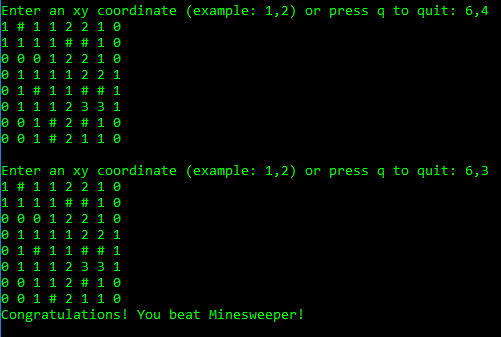
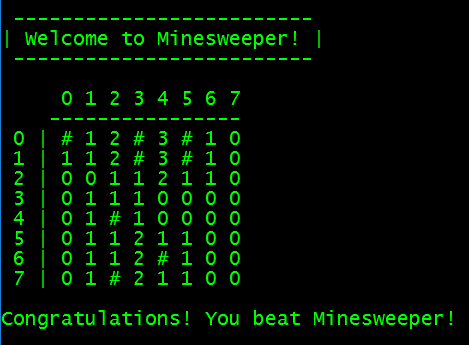
updated visuals

diff --git a/minesweeper.cpp b/minesweeper.cpp
@@ -27,12 +27,19 @@ void minesweeper::init_grid(){
 }
 
 void minesweeper::print_grid(){
+	std::cout << "    ";
+	for(unsigned i = 0; i < ROW; i++) std::cout << ' ' << i;
+	std::cout << "\n    ";
+	for(unsigned i = 0; i < ROW; i++) std::cout << "--";
+	std::cout << '\n';
 	for(unsigned short i = 0; i < ROW; i++){
+		std::cout << ' ' << i << " | ";
 		for(unsigned short j = 0; j < COL; j++){
 			std::cout << grid[i][j] << ' ';
 		}
 		std::cout << '\n';
 	}
+	std::cout << '\n';
 }
 
 void minesweeper::mark(unsigned x, unsigned y){
